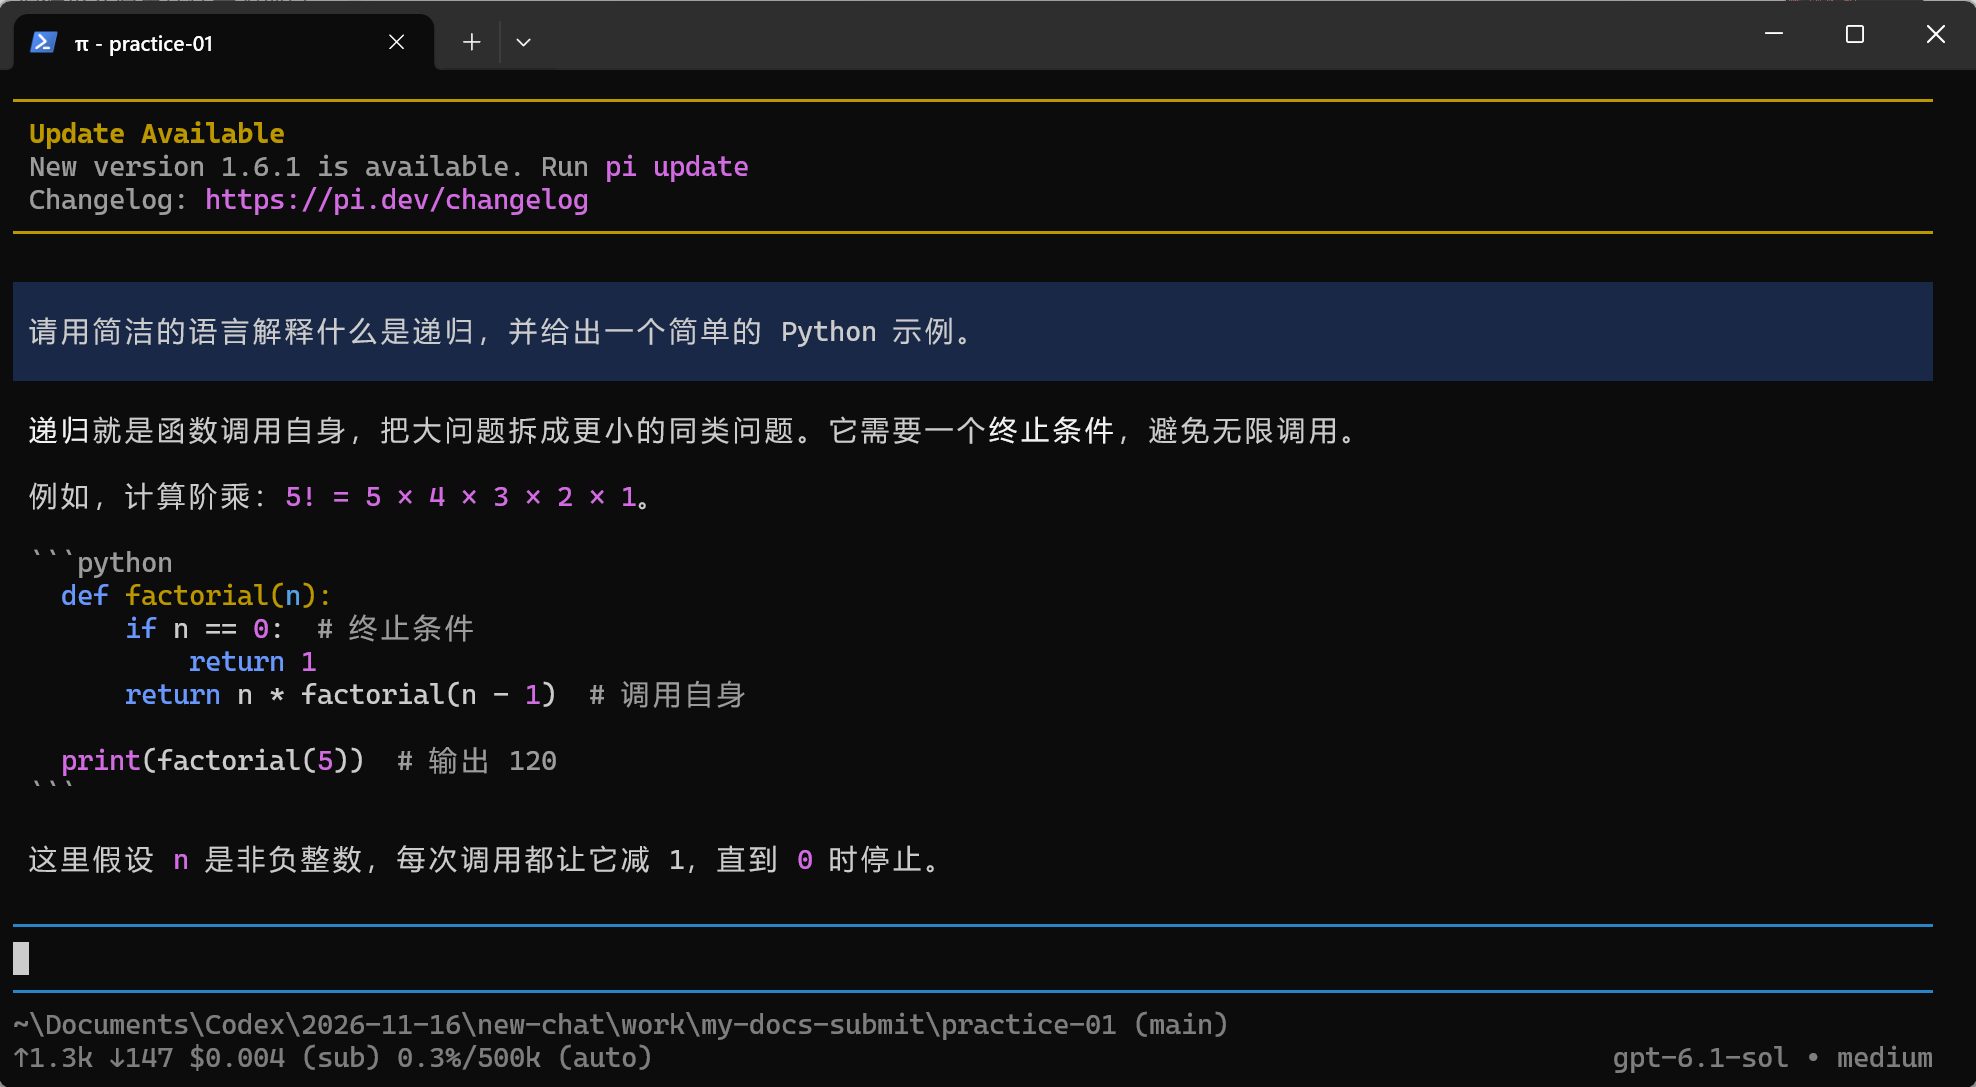
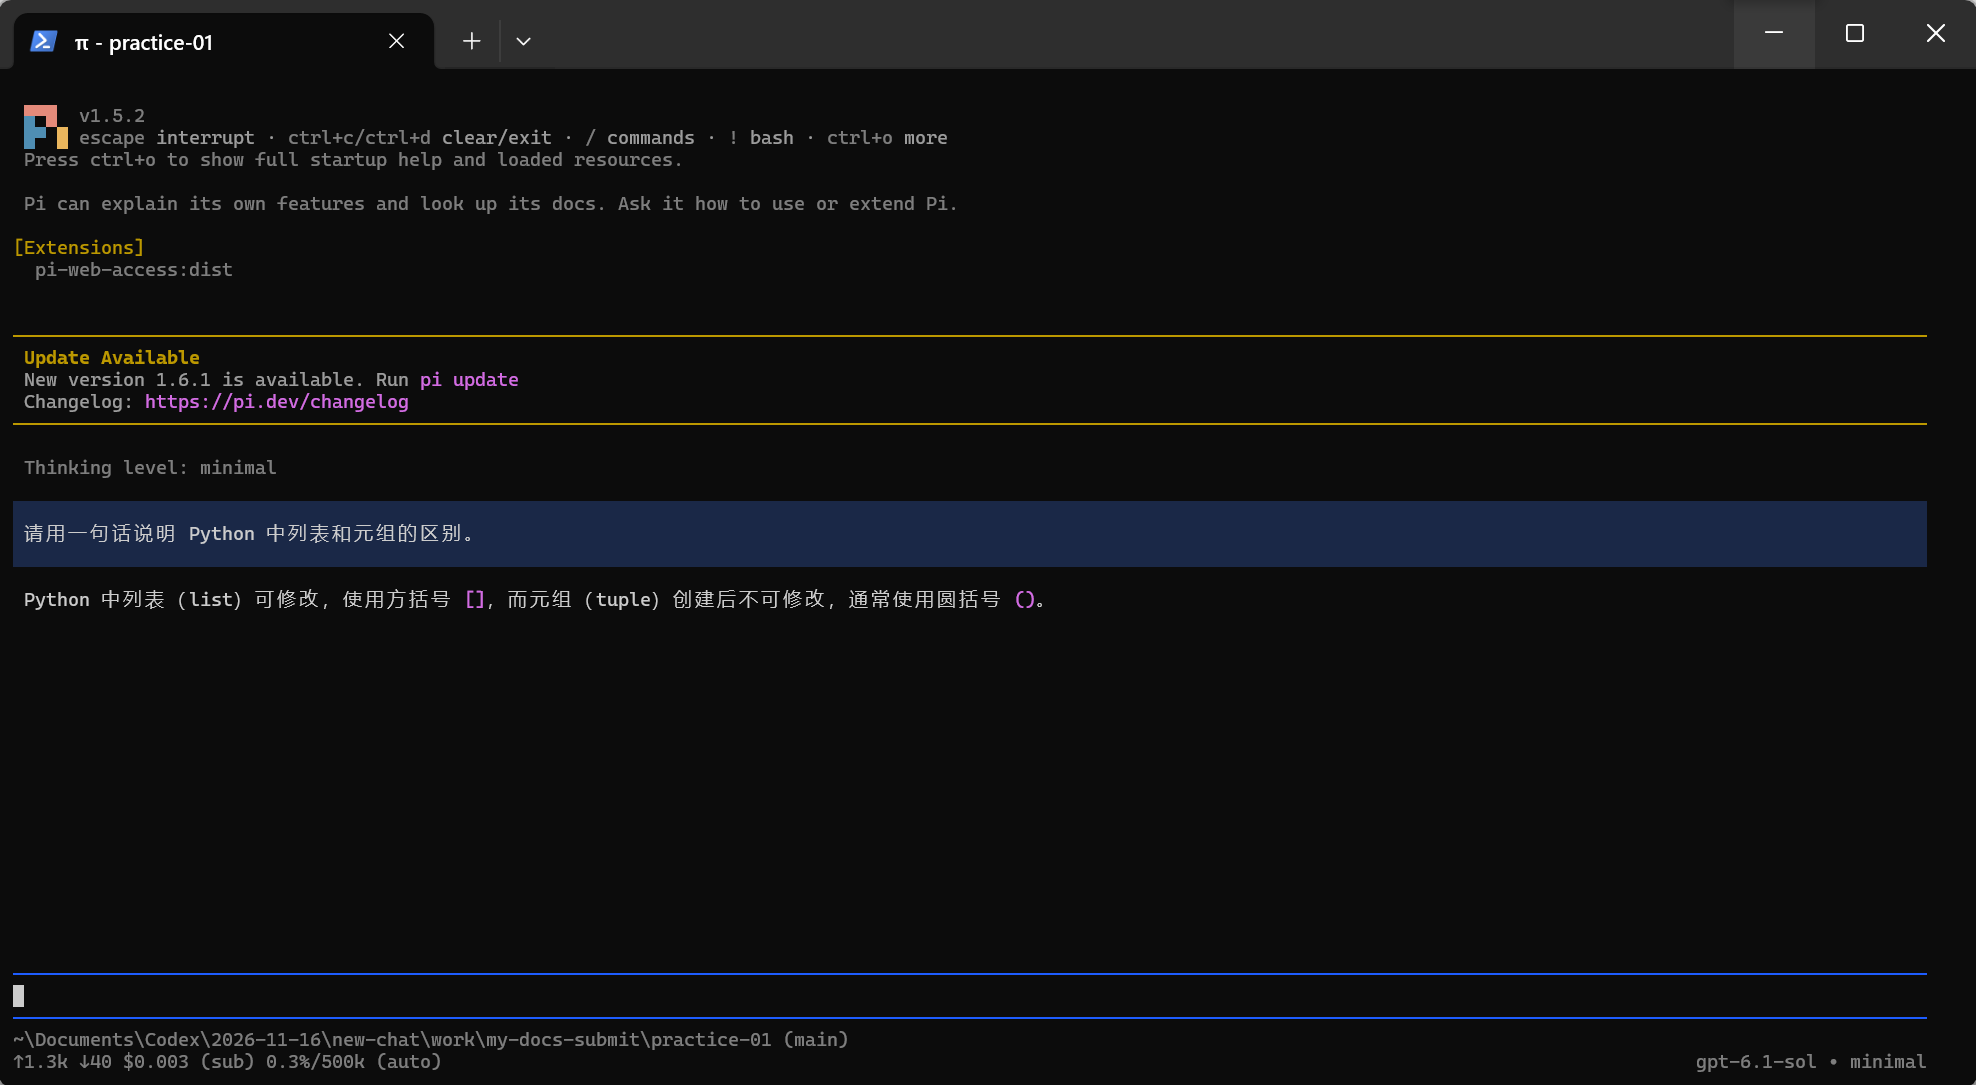
补充实践一模型切换与插件调用证据

diff --git a/practice-01/README.md b/practice-01/README.md
@@ -12,15 +12,21 @@ Pi版本：`1.5.2`
 
 ## 2. 配置模型与首次会话
 
-选择 `openai-codex/gpt-6.1-sol`，思考级别设为 `minimal`。首次会话能够正常回答编程学习问题，登录凭据仅保存在本机，截图和仓库中均未包含 token、API Key 或 `auth.json`。
+选择 `openai-codex/gpt-6.1-sol`，思考级别设为 `minimal`。Pi 正确回答了 Python 列表与元组的区别；截图右下角清楚显示当前状态为 `gpt-6.1-sol · minimal`。登录凭据仅保存在本机，截图和仓库中均未包含 token、API Key 或 `auth.json`。
 
 ![S2 配置模型与首次会话](screenshots/S2-first-conversation.png)
 
 ## 3. 切换模型和思考级别
 
-切换前为 `gpt-6.1-sol / minimal`，切换后为 `gpt-6.1-terra / high`。新模型正常回答了递归概念问题。
+切换前为 `gpt-6.1-sol / minimal`，切换后为 `gpt-6.1-terra / high`。S2 记录切换前的模型和思考级别；S3 保留切换前的 `Thinking level: minimal`，显示切换后的 `Thinking level: high`，右下角同时显示当前状态 `gpt-6.1-terra · high`。切换后的模型正确回答了集合包含关系的传递性问题。
 
 ![S3 模型与思考级别切换](screenshots/S3-model-thinking.png)
+
+切换前后界面并列对照：
+
+| 切换前：`gpt-6.1-sol · minimal` | 切换后：`gpt-6.1-terra · high` |
+|---|---|
+| ![切换前模型与思考级别](screenshots/S2-first-conversation.png) | ![切换后模型与思考级别](screenshots/S3-model-thinking.png) |
 
 ## 4. 使用@引用代码文件
 
@@ -44,7 +50,7 @@ Pi版本：`1.5.2`
 
 ![S6 Pi Package安装与调用](screenshots/S6-package.png)
 
-重新启动 Pi 后，截图顶部的 `[Extensions] pi-web-access:dist` 表明插件已被成功发现并加载；随后实际调用网页访问工具读取 example.com，返回标题 `Example Domain`。
+重新启动 Pi 后，截图顶部的 `[Extensions] pi-web-access:dist` 表明插件已被成功发现并加载。会话先调用 `web_enable` 启用 `web_search`、`source_check`、`fetch_content` 和 `get_search_content`，随后实际调用网页访问工具读取 `https://example.com`。第一次可读文本提取提示内容不完整，插件自动使用 `raw` 模式重新获取成功；最终回答明确给出工具 `fetch_content`、标题 `Example Domain` 以及网页第一段正文。
 
 ![重启Pi后的扩展加载证据](screenshots/S7-extension-restart.png)
 
